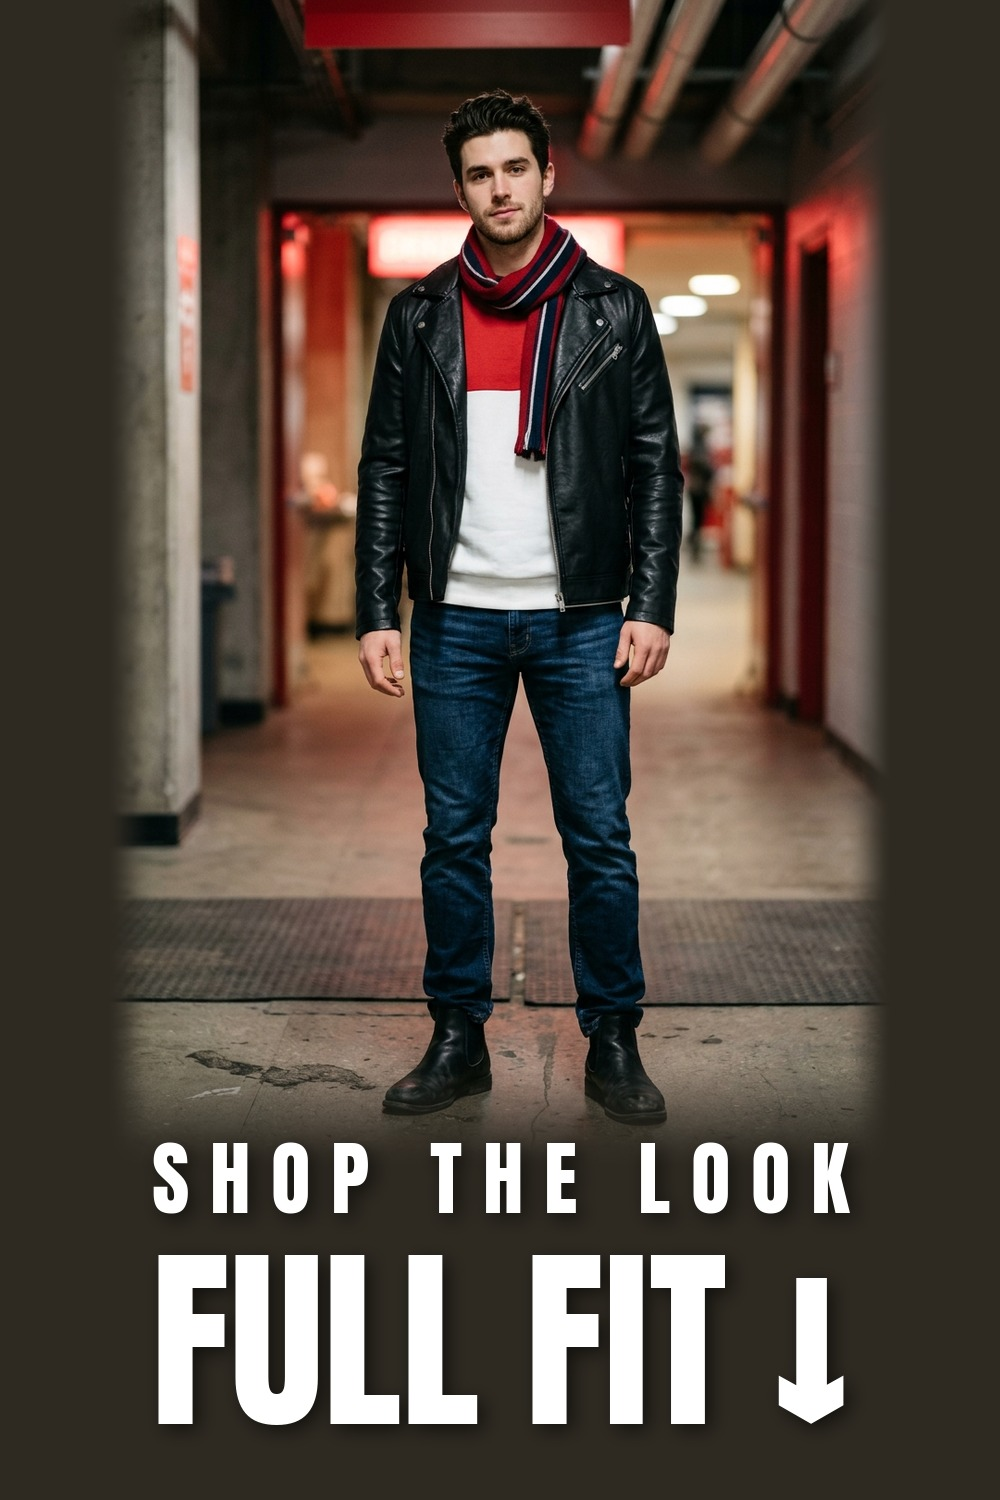
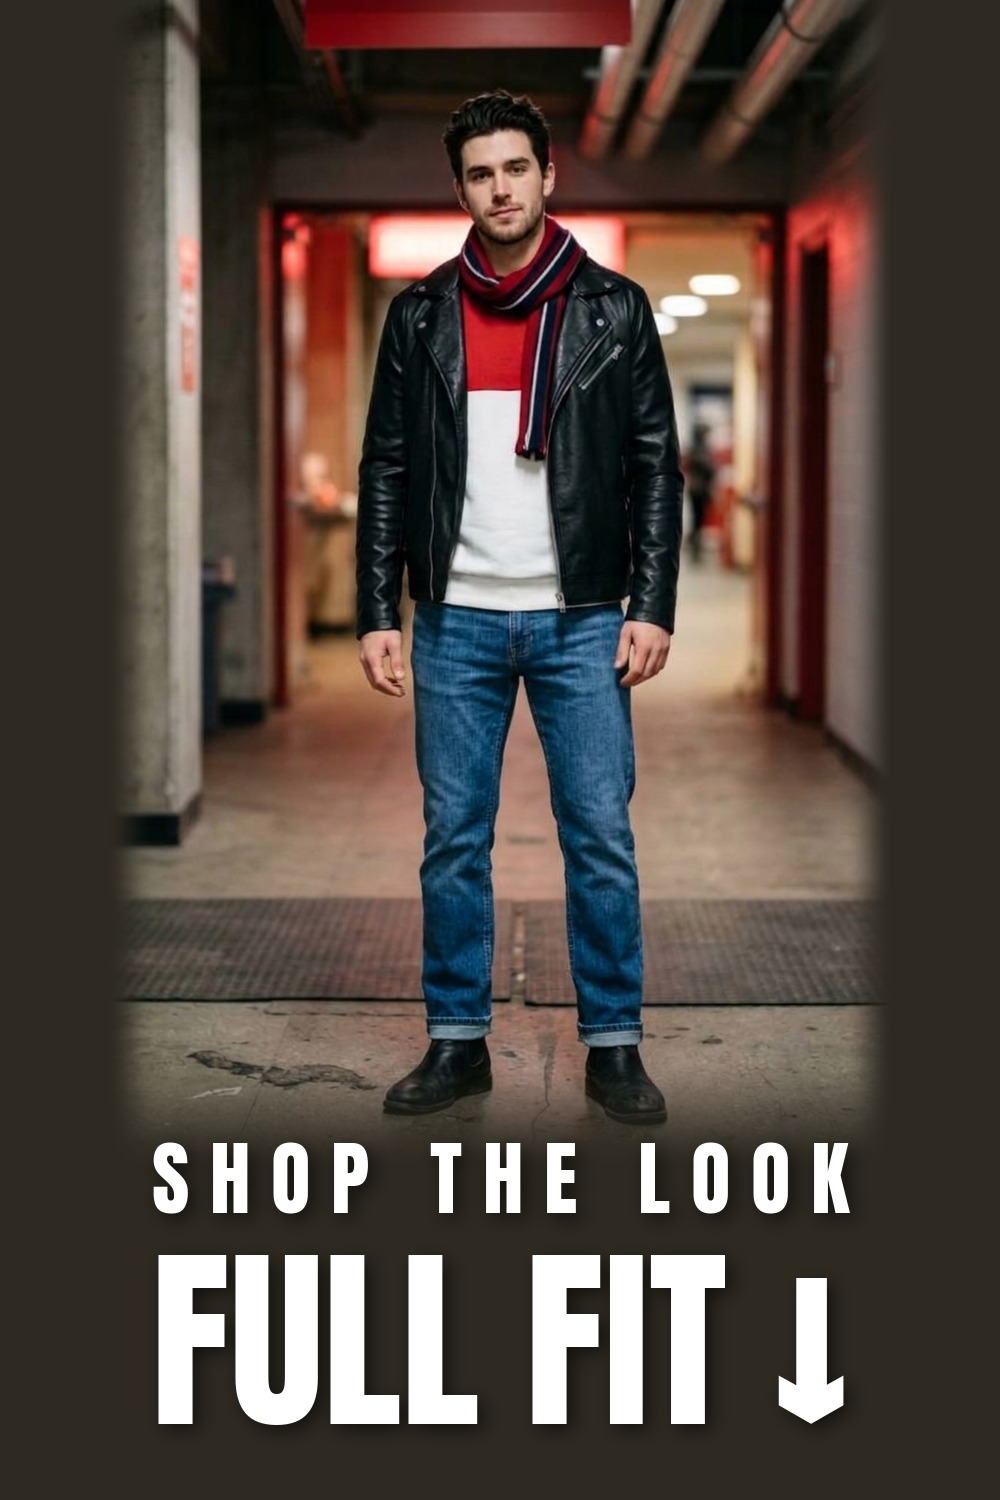
Gameday Nov 9-3: swap the KRYTIVO jeans for Manfinity straight-leg jeans
The KRYTIVO thermal jeans turned out to be a marketplace listing, so the
outfit now links the Manfinity Homme straight-leg jeans from the Sept 22
Chargers outfit (seller checked: shein). New outfit preview photo with
the swapped jeans, -424 thumbnail/WebP and outfit-pin.jpg rebuilt
(--no-sale-line, as the rest of Nov 9). Page, gameday card and Nov 9 pin
copy say straight leg jeans; the KRYTIVO product pin is dropped from
pins_nov-9.json and the bulk CSV. Its detail page stays live for old pins.

diff --git a/outfits/gameday/gameday-nov-9-3/index.html b/outfits/gameday/gameday-nov-9-3/index.html
@@ -159,14 +159,14 @@
 <meta name="viewport" content="width=device-width, initial-scale=1.0">
 <title>Gameday Outfit • ThatFootball12</title>
 <meta property="og:title" content="Gameday Outfit - November 9th, 2026" />
-<meta property="og:description" content="Red and white letter print sweatshirt, black faux leather moto jacket, thermal lined jeans, black Chelsea boots and a red striped Tommy Hilfiger scarf — red goal light hockey night look. This image was created with AI and features AI-generated people." />
+<meta property="og:description" content="Red and white letter print sweatshirt, black faux leather moto jacket, straight leg jeans, black Chelsea boots and a red striped Tommy Hilfiger scarf — red goal light hockey night look. This image was created with AI and features AI-generated people." />
 <meta property="og:image" content="https://thatfootball12.github.io/thatfootball12-links/outfits/gameday/gameday-nov-9-3/outfit-preview.jpg" />
 <meta property="og:url" content="https://thatfootball12.github.io/thatfootball12-links/outfits/gameday/gameday-nov-9-3/" />
 <meta property="og:type" content="article" />
 <meta property="og:site_name" content="ThatFootball12" />
 <meta name="twitter:card" content="summary_large_image" />
 <meta name="twitter:title" content="Gameday Outfit - November 9th, 2026" />
-<meta name="twitter:description" content="Red and white letter print sweatshirt, black faux leather moto jacket, thermal lined jeans, black Chelsea boots and a red striped Tommy Hilfiger scarf — red goal light hockey night look. This image was created with AI and features AI-generated people." />
+<meta name="twitter:description" content="Red and white letter print sweatshirt, black faux leather moto jacket, straight leg jeans, black Chelsea boots and a red striped Tommy Hilfiger scarf — red goal light hockey night look. This image was created with AI and features AI-generated people." />
 <meta name="twitter:image" content="https://thatfootball12.github.io/thatfootball12-links/outfits/gameday/gameday-nov-9-3/outfit-preview.jpg" />
 <style>
   :root{--ink:#0D0D0D;--panel:#18140F;--gold:#D4A017;--crimson:#C8102E;--bone:#F3EFE6;--bone-dim:#B8B2A4;}
@@ -221,9 +221,9 @@
     <div class="card-title">Manfinity CasualCool Zip Up PU Leather Moto Jacket</div>
     <div class="card-price">CA$54.79</div>
   </a>
-  <a class="card" href="jeans/">
-    <div class="card-title">KRYTIVO Water Washed Thermal Lined Jeans</div>
-    <div class="card-price">CA$51.58</div>
+  <a class="card" href="../chargers-game-day-sept-22/jeans/">
+    <div class="card-title">Manfinity Homme Men&#x27;s Solid Color With Pocket Casual Versatile Straight Leg Jeans</div>
+    <div class="card-price">CA$32.70</div>
   </a>
   <a class="card" href="chelsea-boots/">
     <div class="card-title">Amazon Essentials Chelsea Ankle Boot</div>

diff --git a/outfits/gameday/index.html b/outfits/gameday/index.html
@@ -423,7 +423,7 @@
         <picture><source type="image/webp" srcset="gameday-nov-9-3/outfit-preview-424.webp"><img class="card-thumb" src="gameday-nov-9-3/outfit-preview-424.jpg" alt="Gameday Outfit - November 9th, 2026. This image was created with AI and features AI-generated people." loading="eager" decoding="async"></picture>
         <div class="card-body">
           <div class="card-date">Nov 9th, 2026</div>
-          <div class="card-caption">Red and white letter print sweatshirt, black faux leather moto jacket, thermal lined jeans, black Chelsea boots and a red striped Tommy Hilfiger scarf — red goal light hockey night look.</div>
+          <div class="card-caption">Red and white letter print sweatshirt, black faux leather moto jacket, straight leg jeans, black Chelsea boots and a red striped Tommy Hilfiger scarf — red goal light hockey night look.</div>
         </div>
       </a>
       <a class="card-tile" href="gameday-nov-9-2/">
